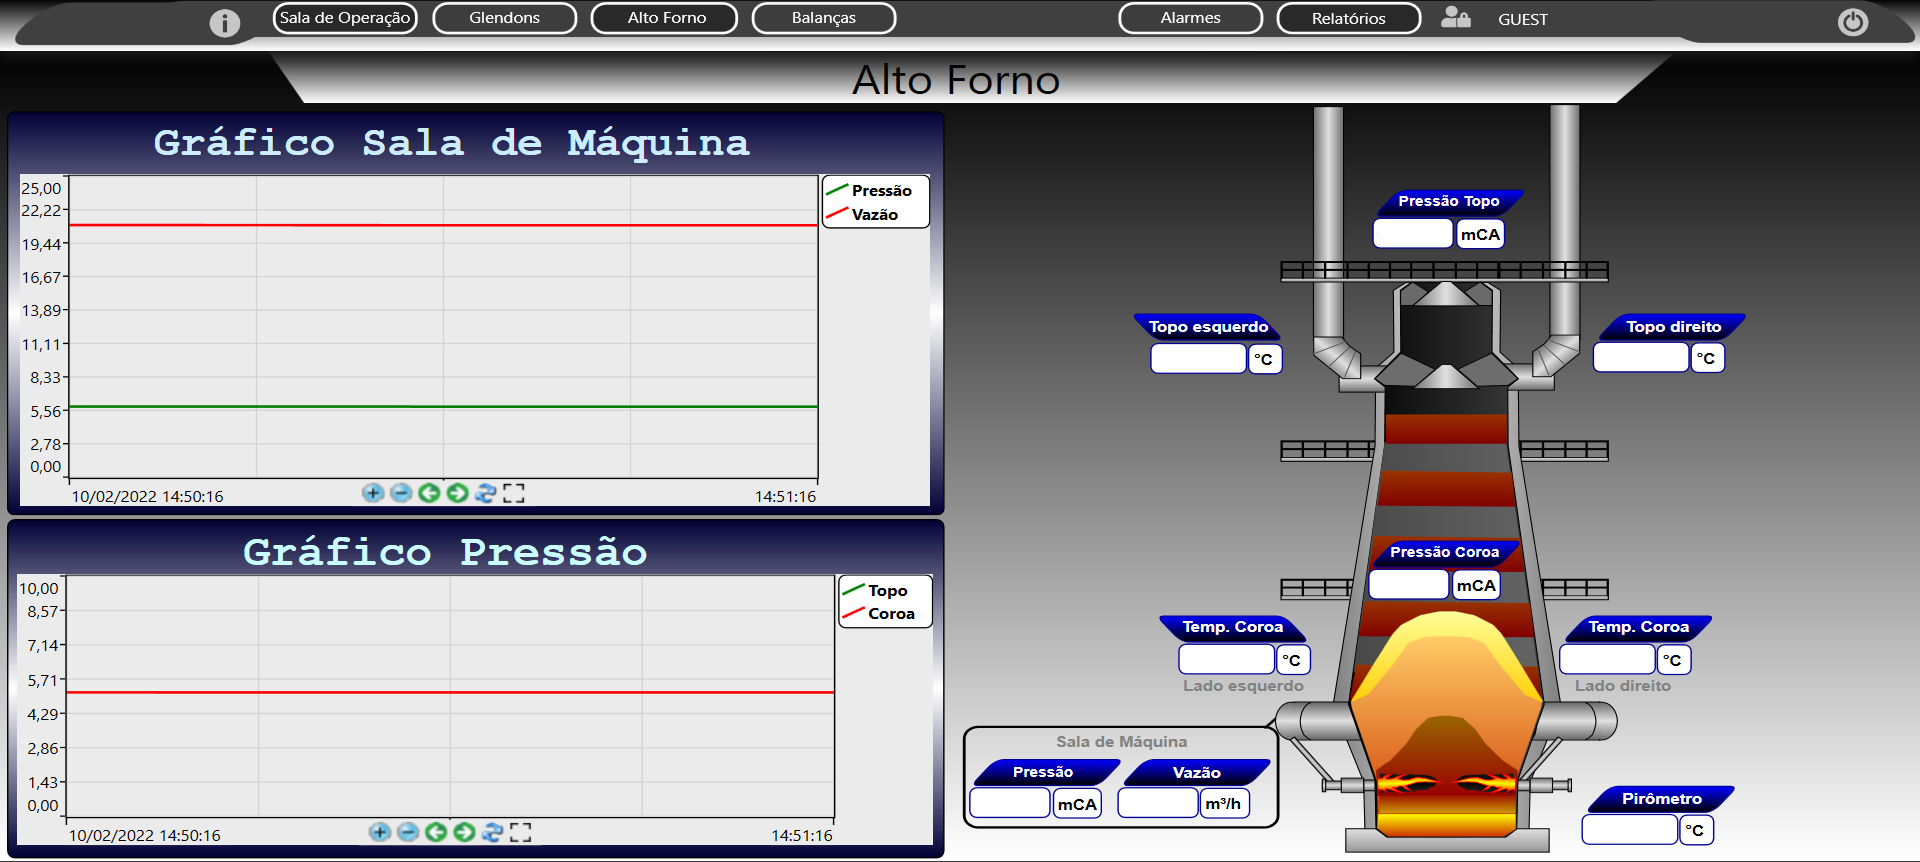
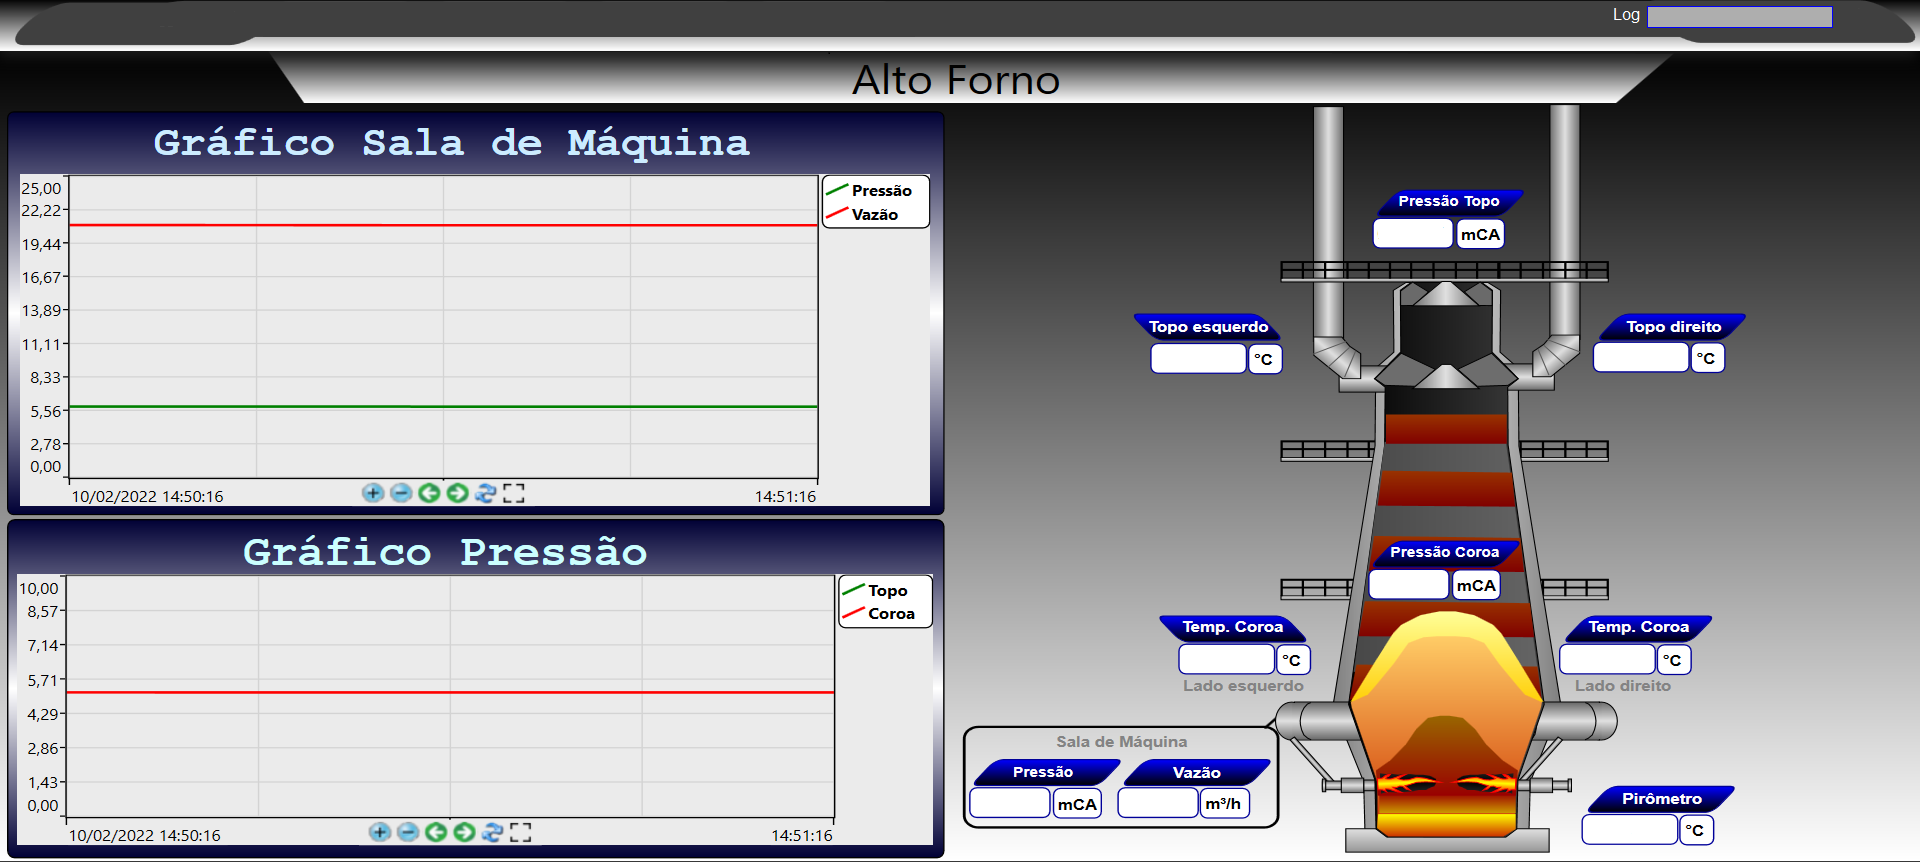
Implements log in Views

Changed region(s): [[0.0938, 0.0, 0.4688, 0.0603], [0.5938, 0.0, 0.8125, 0.0603], [0.8438, 0.0, 0.9688, 0.0603]]

diff --git a/src/main/java/com/rodrigues/rodrigues/serial/controller/ReadController.java b/src/main/java/com/rodrigues/rodrigues/serial/controller/ReadController.java
@@ -14,17 +14,15 @@ public class ReadController implements Runnable{
 
     private int lostConection = 0;
     private int attemptToReconnect = 5;
-    private byte[] numGadgets;
+    private byte[] numGadgets = new byte[11];
     private byte[] bufferRead= new byte[8];
 
     private Thread thread = new Thread(this);
 
 
 
-    public ReadController(int num, PrimaryViewController fxmlController, SerialController controller){
-        this.numGadgets = new byte[num];
+    public ReadController(PrimaryViewController fxmlController){
         this.fxmlController = fxmlController;
-        this.controller = controller;
     }
 
     public void read() throws InterruptedException {if(!thread.isAlive()){thread.run();lostConection = 0;}}
@@ -56,6 +54,8 @@ public class ReadController implements Runnable{
                 service.readData();
                 Thread.sleep(300);
                 indicadores(i);
+            	fxmlController.txLog.setText("Conection OK");
+            	fxmlController.txLog1.setText("Conection OK");
                 return false;
             }
             //em caso de erro na coneção, vamos tentar algumas vezes e depois cancelar a cenecção
@@ -65,10 +65,11 @@ public class ReadController implements Runnable{
             	
             	if(lostConection <= attemptToReconnect) {
             		thread.interrupt();
-            		System.out.println(lostConection);
-            		return false;
+               		return false;
             	}else {
                 	controller.timerCancel();
+                	fxmlController.txLog.setText("Conection Lost");
+                	fxmlController.txLog1.setText("Conection Lost");
                 	return true;
             	}
             } 
@@ -108,4 +109,9 @@ public class ReadController implements Runnable{
     public SerialProperties getSerialProperties() {
     	return properties;
     }
+
+	public void setSerialController(SerialController serialController) {
+		this.controller = serialController;
+		
+	}
 }

diff --git a/src/main/java/com/rodrigues/rodrigues/gui/PrimaryViewController.java b/src/main/java/com/rodrigues/rodrigues/gui/PrimaryViewController.java
@@ -36,7 +36,7 @@ public class PrimaryViewController implements Initializable {
 		return this.controller;
 	}
 
-	private SerialController controller = new SerialController(this);
+	private SerialController controller;
 	private Boolean comunicationOn;
 	private Timeline timeline;
 	private boolean time;
@@ -63,6 +63,8 @@ public class PrimaryViewController implements Initializable {
 	public Text psm, psm1;
 	@FXML
 	public Text pirometro, pirometro1;
+	@FXML
+	public Text txLog, txLog1;
 
 	//@FXML
 	//private void onMenuItemPortCom(ActionEvent event) throws UnsupportedCommOperationException {
@@ -75,17 +77,20 @@ public class PrimaryViewController implements Initializable {
 	
 	@FXML
 	public void stopComunication(ActionEvent event) throws UnsupportedCommOperationException, IOException {
-		alert();
+		controller.timerCancel();
+		txLog.setText("Comunication Stop");
+		txLog1.setText("Comunication Stop");
 	}
 
 	@FXML
 	private void startComunication(ActionEvent event) throws UnsupportedCommOperationException, InterruptedException {
-		comunicationOn = controller.startCommunication();
+		controller.startCommunication();
 	}
 
 	@Override
 	public void initialize(URL url, ResourceBundle rb) {
-		comunicationOn = controller.startCommunication();
+		controller = new SerialController(PrimaryViewController.this);
+		controller.startCommunication();
 	}
 
 	private void beginTimer() {
@@ -112,10 +117,6 @@ public class PrimaryViewController implements Initializable {
 			e.printStackTrace();
 			Alerts.showAlert("IO Exception", "Error loading View", e.getMessage(), AlertType.ERROR);
 		}	
-	}
-
-	public static void alert() {
-		Alerts.showAlert("IO Exception", "Error loading View", "teste do print strack", AlertType.ERROR);
 	}
 }
 

diff --git a/src/main/java/com/rodrigues/rodrigues/serial/controller/SerialController.java b/src/main/java/com/rodrigues/rodrigues/serial/controller/SerialController.java
@@ -12,28 +12,28 @@ import javafx.scene.control.Alert.AlertType;
 public class SerialController{
     public SerialController(PrimaryViewController fxmlController){
         this.fxmlController  = fxmlController;
+        this.readController = new ReadController(fxmlController);
     }
 
     private PrimaryViewController fxmlController;
-   
-
-
-    private int numGadgets=11;
     private Timer timer = new Timer(true);
     private TimerTask tarefa;
-    private ReadController readController = new ReadController(numGadgets,fxmlController, this);
+    private ReadController readController;
 
     int end = 2;
 
-    public Boolean startCommunication(){
- 
-        try {
-			timerInstantiated();
-		} catch (Exception e) {
-			// TODO Auto-generated catch block
-			e.printStackTrace();
-		}
-        return true;
+    public void startCommunication(){
+    	if(tarefa == null) {
+	    	readController.setSerialController(this);
+	    	fxmlController.txLog.setText("Starting comunication...");
+	    	fxmlController.txLog1.setText("Starting comunication...");
+	        try {
+				timerInstantiated();
+			} catch (Exception e) {
+				// TODO Auto-generated catch block
+				e.printStackTrace();
+			}
+    	}
     }
 
     private void timerInstantiated(){
@@ -51,7 +51,10 @@ public class SerialController{
         timer.scheduleAtFixedRate(tarefa, 3000, 7000);
     }
     public void timerCancel(){
-        if(tarefa != null)tarefa.cancel();
+        if(tarefa != null) {
+        	tarefa.cancel();
+        	tarefa = null;
+        }
     }
     
     public ReadController getReadControler() {

diff --git a/src/main/java/com/rodrigues/rodrigues/serial/service/SerialService.java b/src/main/java/com/rodrigues/rodrigues/serial/service/SerialService.java
@@ -52,7 +52,7 @@ public class SerialService{
 			if(cp==null) cp = CommPortIdentifier.getPortIdentifier(portName);
 			return true;
 		} catch (NoSuchPortException e) {
-			System.out.println("Porta não existe! STATUS: " + e.getMessage());			
+			System.out.println("Porta não existe! STATUS: " + e.getMessage());	
 			return false;
 		}
 	}
